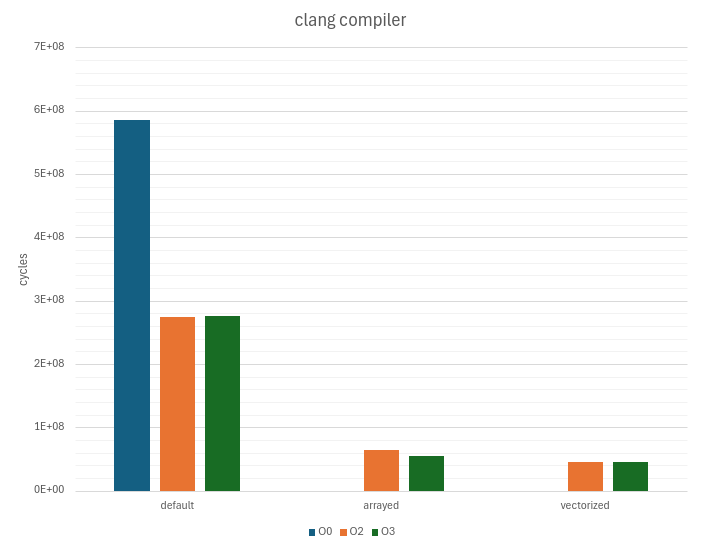
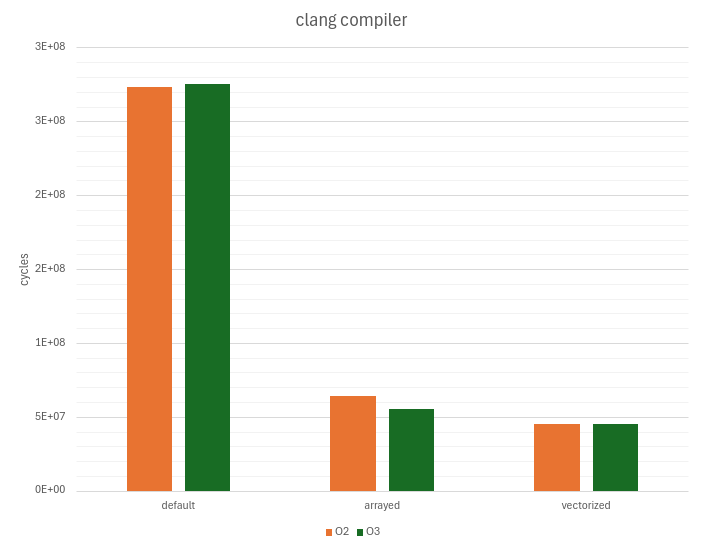
fix readme

diff --git a/README.md b/README.md
@@ -48,20 +48,20 @@ make run
 
 ### Results
 #### gcc compiler:
-| Algorithm     | Cycles (-O0), e7  | Cycles (-O2), e7     | Cycles (-O3), e7     |
-| ---------     |-----              |-----                 | -----                | 
-| naive         | 57.10 ± 0.42      | 27.84 ± 0.71, (x1.0) | 27.82 ± 0.76, (x1.0) |
-| arrayed-based |                   | 5.37 ± 0.03, (x5.2)  | 25.99 ± 0.12, (x1.1) |
-| SIMD-based    |                   | 3.97 ± 0.03, (x7.0)  | 3.96 ± 0.03, (x7.0)  |
+| Algorithm     |  Cycles (-O2), e7    | Cycles (-O3), e7     |
+| ---------     |--                    | -----                | 
+| naive         | 27.84 ± 0.71, (x1.0) | 27.82 ± 0.76, (x1.0) |
+| arrayed-based | 5.37 ± 0.03, (x5.2)  | 25.99 ± 0.12, (x1.1) |
+| SIMD-based    | 3.97 ± 0.03, (x7.0)  | 3.96 ± 0.03, (x7.0)  |
 
 ![](./images/gcc.png)
 
 #### clang compiler:
-| Algorithm     | Cycles (-O0), e7  | Cycles (-O2), e7     | Cycles (-O3), e7     |
-| ---------     |-----              |-----                 | -----                | 
-| naive         | 58.49 ± 0.56      | 27.36 ± 0.07, (x1.0) | 27.51 ± 0.61, (x1.0) |
-| arrayed-based |                   | 6.38 ± 0.11, (x4.3)  | 5.51 ± 0.02, (x5.0)  |
-| SIMD-based    |                   | 4.49 ± 0.03, (x6.1)  | 4.49 ± 0.02, (x6.1)  |
+| Algorithm     | Cycles (-O2), e7     | Cycles (-O3), e7     |
+| ---------     |----                  | -----                | 
+| naive         | 27.36 ± 0.07, (x1.0) | 27.51 ± 0.61, (x1.0) |
+| arrayed-based | 6.38 ± 0.11, (x4.3)  | 5.51 ± 0.02, (x5.0)  |
+| SIMD-based    | 4.49 ± 0.03, (x6.1)  | 4.49 ± 0.02, (x6.1)  |
 
 
 ![](./images/clang.png)
